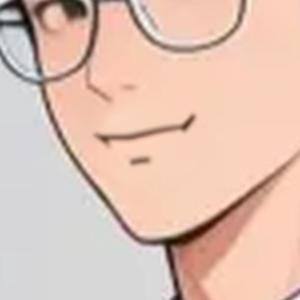
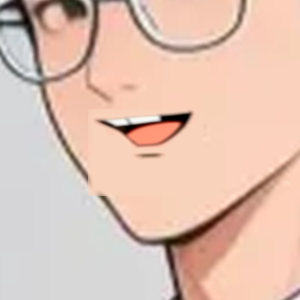
Lip-sync: 5 mouth shapes from the painted 'a' mouth; reuse them
Claude-Session: https://claude.ai/code/session_01XfPBcS34P2xrzCFxWG23Mm

Changed region(s): [[0.3, 0.36, 0.66, 0.57], [0.27, 0.57, 0.36, 0.66]]

diff --git a/n3/face/make.py b/n3/face/make.py
@@ -10,51 +10,60 @@ cfg = json.load(open(os.path.join(H, "job.json")))
 src = Image.open(os.path.join(H, "..", "cartoon", "assets", cfg["img"] + ".png")).convert("RGB")
 x0, y0, x1, y1 = cfg["crop"]
 bust = src.crop((x0, y0, x1, y1))
-# 1) upscale x4 (Real-ESRGAN anime 6B) ------------------------------------------------------------
-t0 = time.time()
-try:
-    from basicsr.archs.rrdbnet_arch import RRDBNet
-    from realesrgan import RealESRGANer
-    m = RRDBNet(num_in_ch=3, num_out_ch=3, num_feat=64, num_block=6, num_grow_ch=32, scale=4)
-    up = RealESRGANer(scale=4, model_path="https://github.com/xinntao/Real-ESRGAN/releases/download/v0.2.2.4/RealESRGAN_x4plus_anime_6B.pth",
-                      model=m, tile=256, half=False, device="cpu")
-    arr, _ = up.enhance(np.array(bust)[:, :, ::-1], outscale=4)
-    big = Image.fromarray(arr[:, :, ::-1])
-    print("upscaled", big.size, "%.0fs" % (time.time() - t0))
-except Exception as e:
-    print("upscale failed", type(e).__name__, str(e)[:300])
-    big = bust.resize(((x1 - x0) * 4, (y1 - y0) * 4), Image.LANCZOS)
-big.save(os.path.join(OUT, "big.png"))
-S = big.width / (x1 - x0)
-mx, my = (cfg["mouth"][0] - x0) * S, (cfg["mouth"][1] - y0) * S
-# 2) mouth shapes --------------------------------------------------------------------------------
-from diffusers import StableDiffusionInpaintPipeline
-pipe = StableDiffusionInpaintPipeline.from_pretrained(cfg.get("model", "Lykon/dreamshaper-8-inpainting"), torch_dtype=torch.float32, safety_checker=None)
-pipe.set_progress_bar_config(disable=True)
-R = int(cfg.get("box", 300))
-box = (int(mx - R / 2), int(my - R * 0.45), int(mx + R / 2), int(my + R * 0.55))
-crop = big.crop(box).resize((512, 512), Image.LANCZOS)
-mw, mh = cfg.get("mask", [0.42, 0.34])
-mask = Image.new("L", (512, 512), 0)
-ImageDraw.Draw(mask).ellipse((256 - 256 * mw, 230 - 256 * mh * 0.8, 256 + 256 * mw, 230 + 256 * mh * 1.2), fill=255)
-mask_s = mask.filter(ImageFilter.GaussianBlur(10))
-SH = {"a": "mouth wide open saying 'ah', open jaw, visible tongue and upper teeth",
-      "i": "mouth open in a wide flat shape saying 'ee', teeth showing, lips stretched sideways",
-      "u": "small round puckered mouth saying 'oo', lips pushed forward, small dark opening",
-      "e": "mouth half open in a wide shape saying 'eh', upper teeth visible",
-      "o": "round open mouth saying 'oh', oval opening"}
-mouths = {}
-for v, desc in SH.items():
+READY = all(os.path.exists(os.path.join(OUT, "mouth_%s.png" % v)) for v in "aiueo") and os.path.exists(os.path.join(OUT, "big.png"))
+if READY:   # mouth shapes already made (and checked) - reuse them
+    big = Image.open(os.path.join(OUT, "big.png")).convert("RGB")
+    S = big.width / (x1 - x0)
+    mx, my = (cfg["mouth"][0] - x0) * S, (cfg["mouth"][1] - y0) * S
+    R = int(cfg.get("box", 300))
+    box = (int(mx - R / 2), int(my - R * 0.45), int(mx + R / 2), int(my + R * 0.55))
+    mouths = {v: Image.open(os.path.join(OUT, "mouth_%s.png" % v)).convert("RGB") for v in "aiueo"}
+else:
+    # 1) upscale x4 (Real-ESRGAN anime 6B) ------------------------------------------------------------
     t0 = time.time()
-    g = torch.Generator().manual_seed(7)
-    r = pipe(prompt="korean webtoon anime style, clean black line art, flat cel shading, close-up of a young man's face, " + desc,
-             negative_prompt="realistic, photo, blurry, deformed, extra teeth, lipstick, beard, text",
-             image=crop, mask_image=mask, num_inference_steps=cfg.get("steps", 22), guidance_scale=7.5, strength=cfg.get("strength", 0.95),
-             generator=g).images[0]
-    piece = Image.composite(r, crop, mask_s).resize((box[2] - box[0], box[3] - box[1]), Image.LANCZOS)
-    piece.save(os.path.join(OUT, "mouth_%s.png" % v))
-    mouths[v] = piece
-    print("mouth", v, "%.0fs" % (time.time() - t0))
+    try:
+        from basicsr.archs.rrdbnet_arch import RRDBNet
+        from realesrgan import RealESRGANer
+        m = RRDBNet(num_in_ch=3, num_out_ch=3, num_feat=64, num_block=6, num_grow_ch=32, scale=4)
+        up = RealESRGANer(scale=4, model_path="https://github.com/xinntao/Real-ESRGAN/releases/download/v0.2.2.4/RealESRGAN_x4plus_anime_6B.pth",
+                          model=m, tile=256, half=False, device="cpu")
+        arr, _ = up.enhance(np.array(bust)[:, :, ::-1], outscale=4)
+        big = Image.fromarray(arr[:, :, ::-1])
+        print("upscaled", big.size, "%.0fs" % (time.time() - t0))
+    except Exception as e:
+        print("upscale failed", type(e).__name__, str(e)[:300])
+        big = bust.resize(((x1 - x0) * 4, (y1 - y0) * 4), Image.LANCZOS)
+    big.save(os.path.join(OUT, "big.png"))
+    S = big.width / (x1 - x0)
+    mx, my = (cfg["mouth"][0] - x0) * S, (cfg["mouth"][1] - y0) * S
+    # 2) mouth shapes --------------------------------------------------------------------------------
+    from diffusers import StableDiffusionInpaintPipeline
+    pipe = StableDiffusionInpaintPipeline.from_pretrained(cfg.get("model", "Lykon/dreamshaper-8-inpainting"), torch_dtype=torch.float32, safety_checker=None)
+    pipe.set_progress_bar_config(disable=True)
+    R = int(cfg.get("box", 300))
+    box = (int(mx - R / 2), int(my - R * 0.45), int(mx + R / 2), int(my + R * 0.55))
+    crop = big.crop(box).resize((512, 512), Image.LANCZOS)
+    mw, mh = cfg.get("mask", [0.42, 0.34])
+    mask = Image.new("L", (512, 512), 0)
+    ImageDraw.Draw(mask).ellipse((256 - 256 * mw, 230 - 256 * mh * 0.8, 256 + 256 * mw, 230 + 256 * mh * 1.2), fill=255)
+    mask_s = mask.filter(ImageFilter.GaussianBlur(10))
+    SH = {"a": "mouth wide open saying 'ah', open jaw, visible tongue and upper teeth",
+          "i": "mouth open in a wide flat shape saying 'ee', teeth showing, lips stretched sideways",
+          "u": "small round puckered mouth saying 'oo', lips pushed forward, small dark opening",
+          "e": "mouth half open in a wide shape saying 'eh', upper teeth visible",
+          "o": "round open mouth saying 'oh', oval opening"}
+    mouths = {}
+    for v, desc in SH.items():
+        t0 = time.time()
+        g = torch.Generator().manual_seed(7)
+        r = pipe(prompt="korean webtoon anime style, clean black line art, flat cel shading, close-up of a young man's face, " + desc,
+                 negative_prompt="realistic, photo, blurry, deformed, extra teeth, lipstick, beard, text",
+                 image=crop, mask_image=mask, num_inference_steps=cfg.get("steps", 22), guidance_scale=7.5, strength=cfg.get("strength", 0.95),
+                 generator=g).images[0]
+        piece = Image.composite(r, crop, mask_s).resize((box[2] - box[0], box[3] - box[1]), Image.LANCZOS)
+        piece.save(os.path.join(OUT, "mouth_%s.png" % v))
+        mouths[v] = piece
+        print("mouth", v, "%.0fs" % (time.time() - t0))
 # 3) voice + timing ------------------------------------------------------------------------------
 VV = "http://localhost:50021"
 for _ in range(90):
